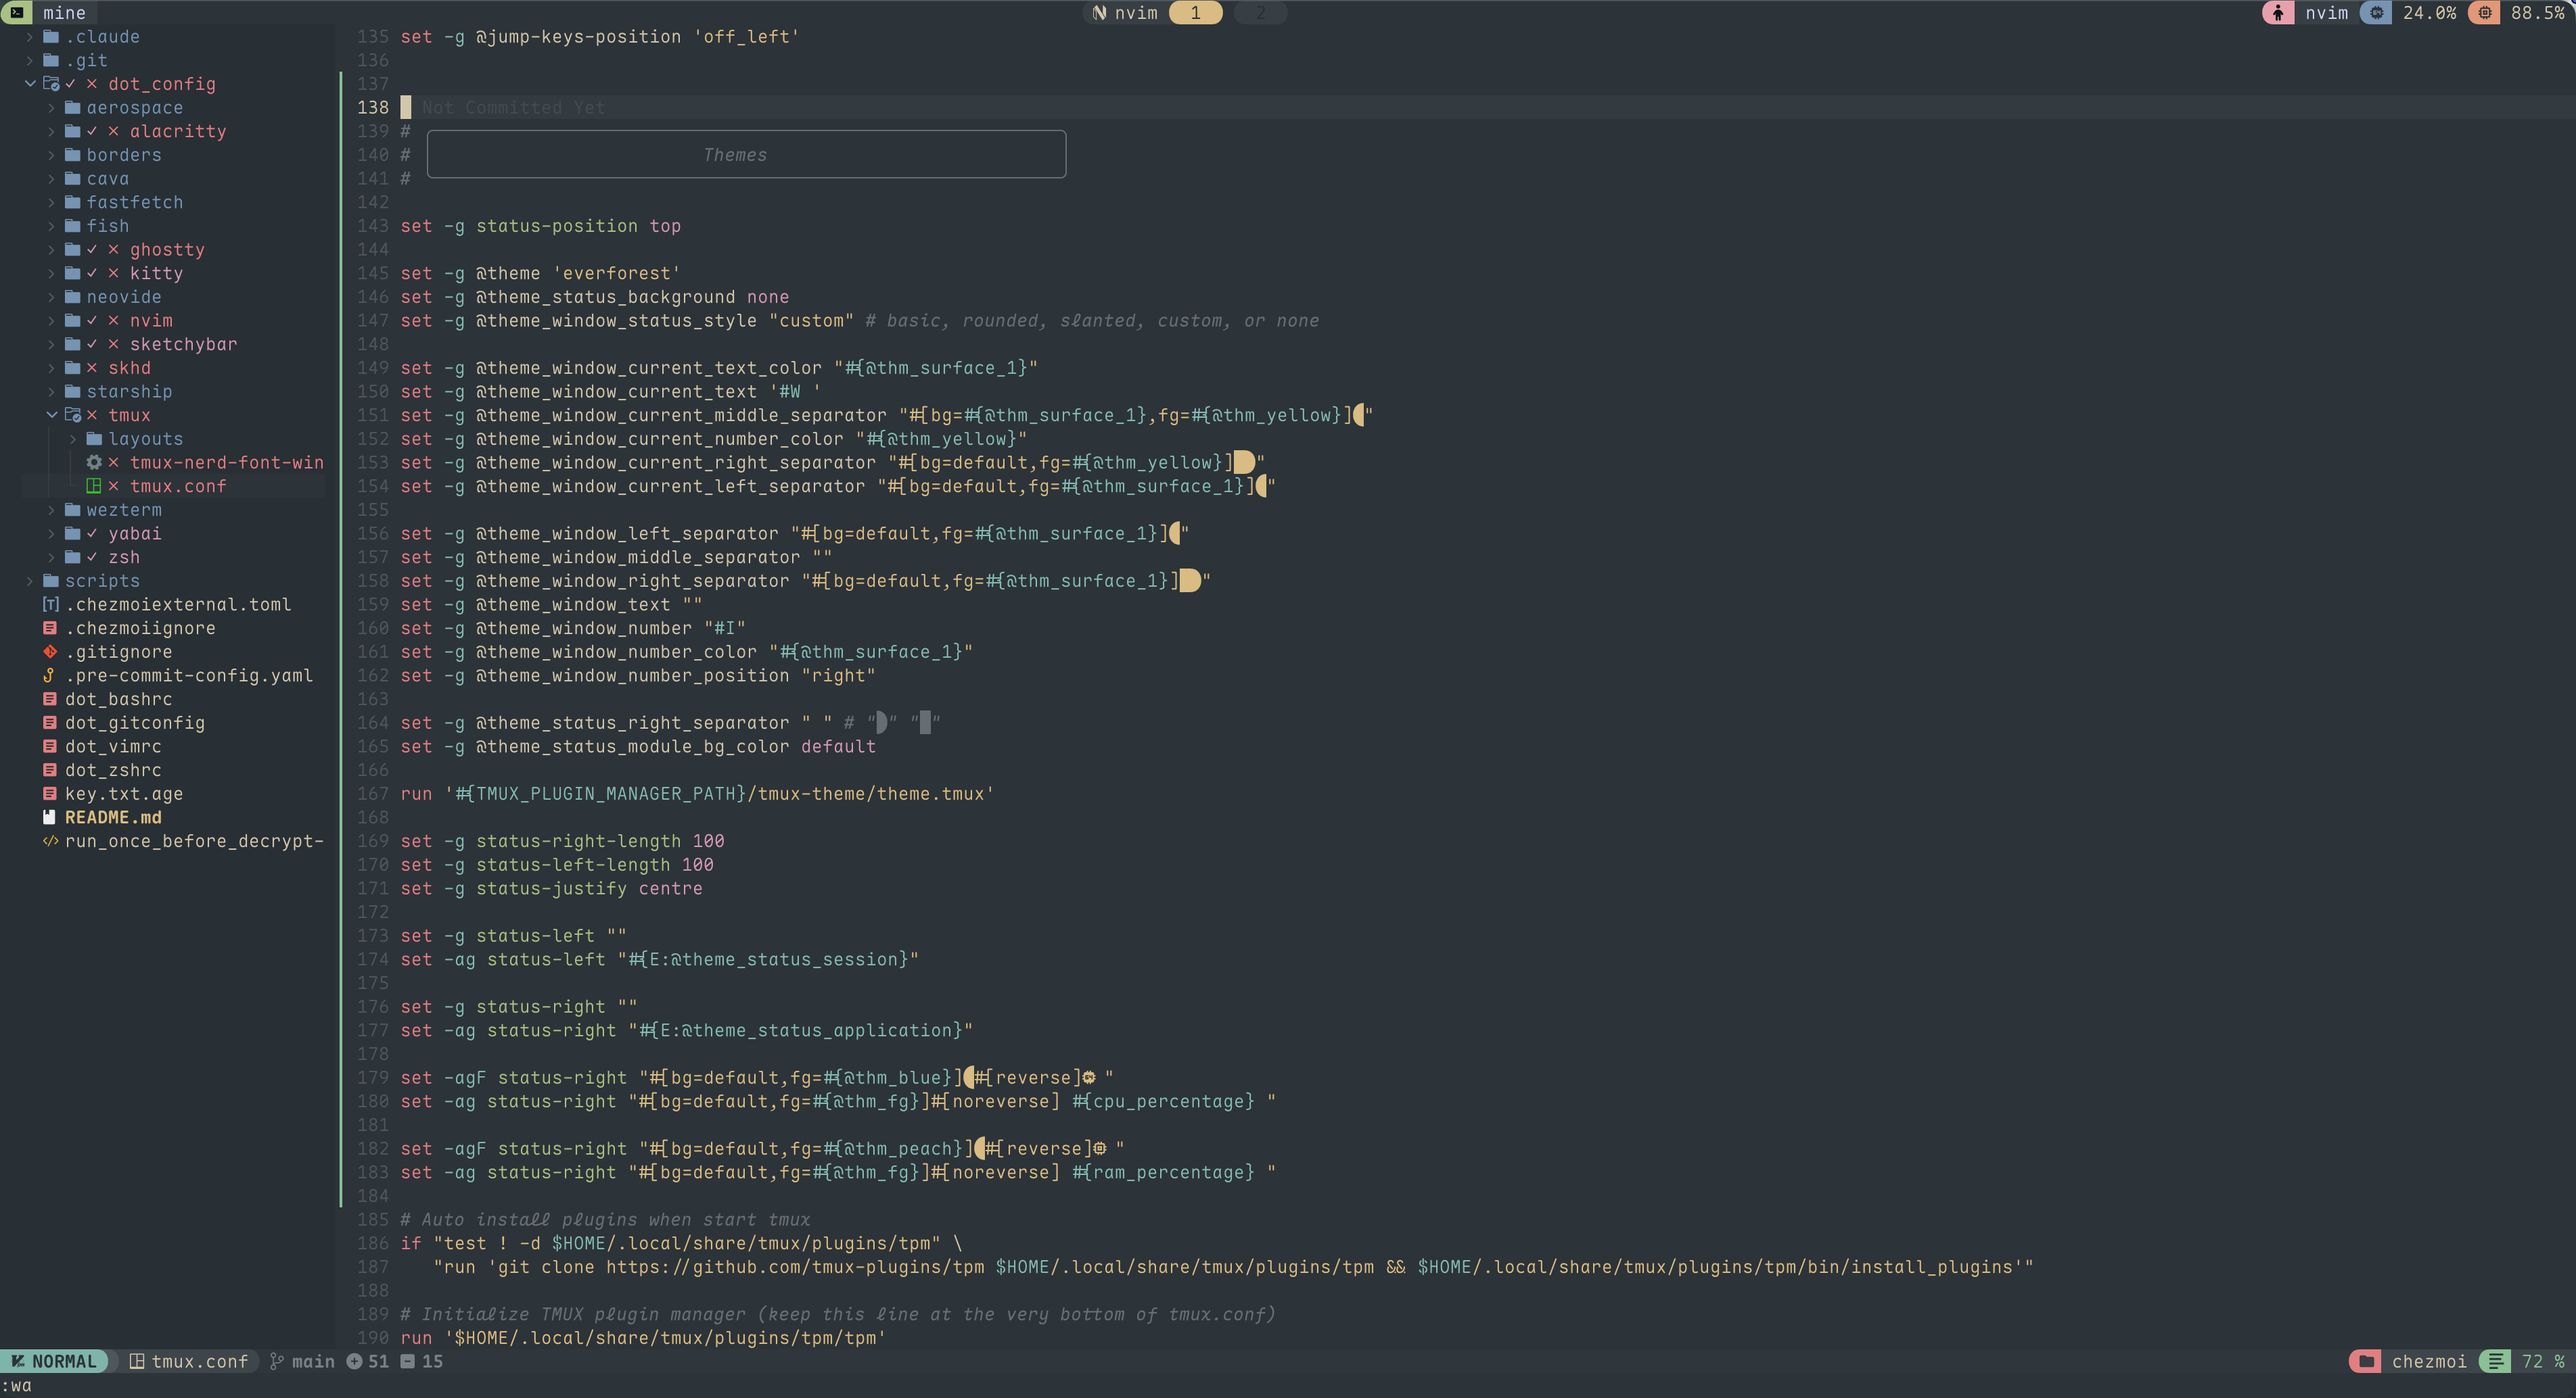
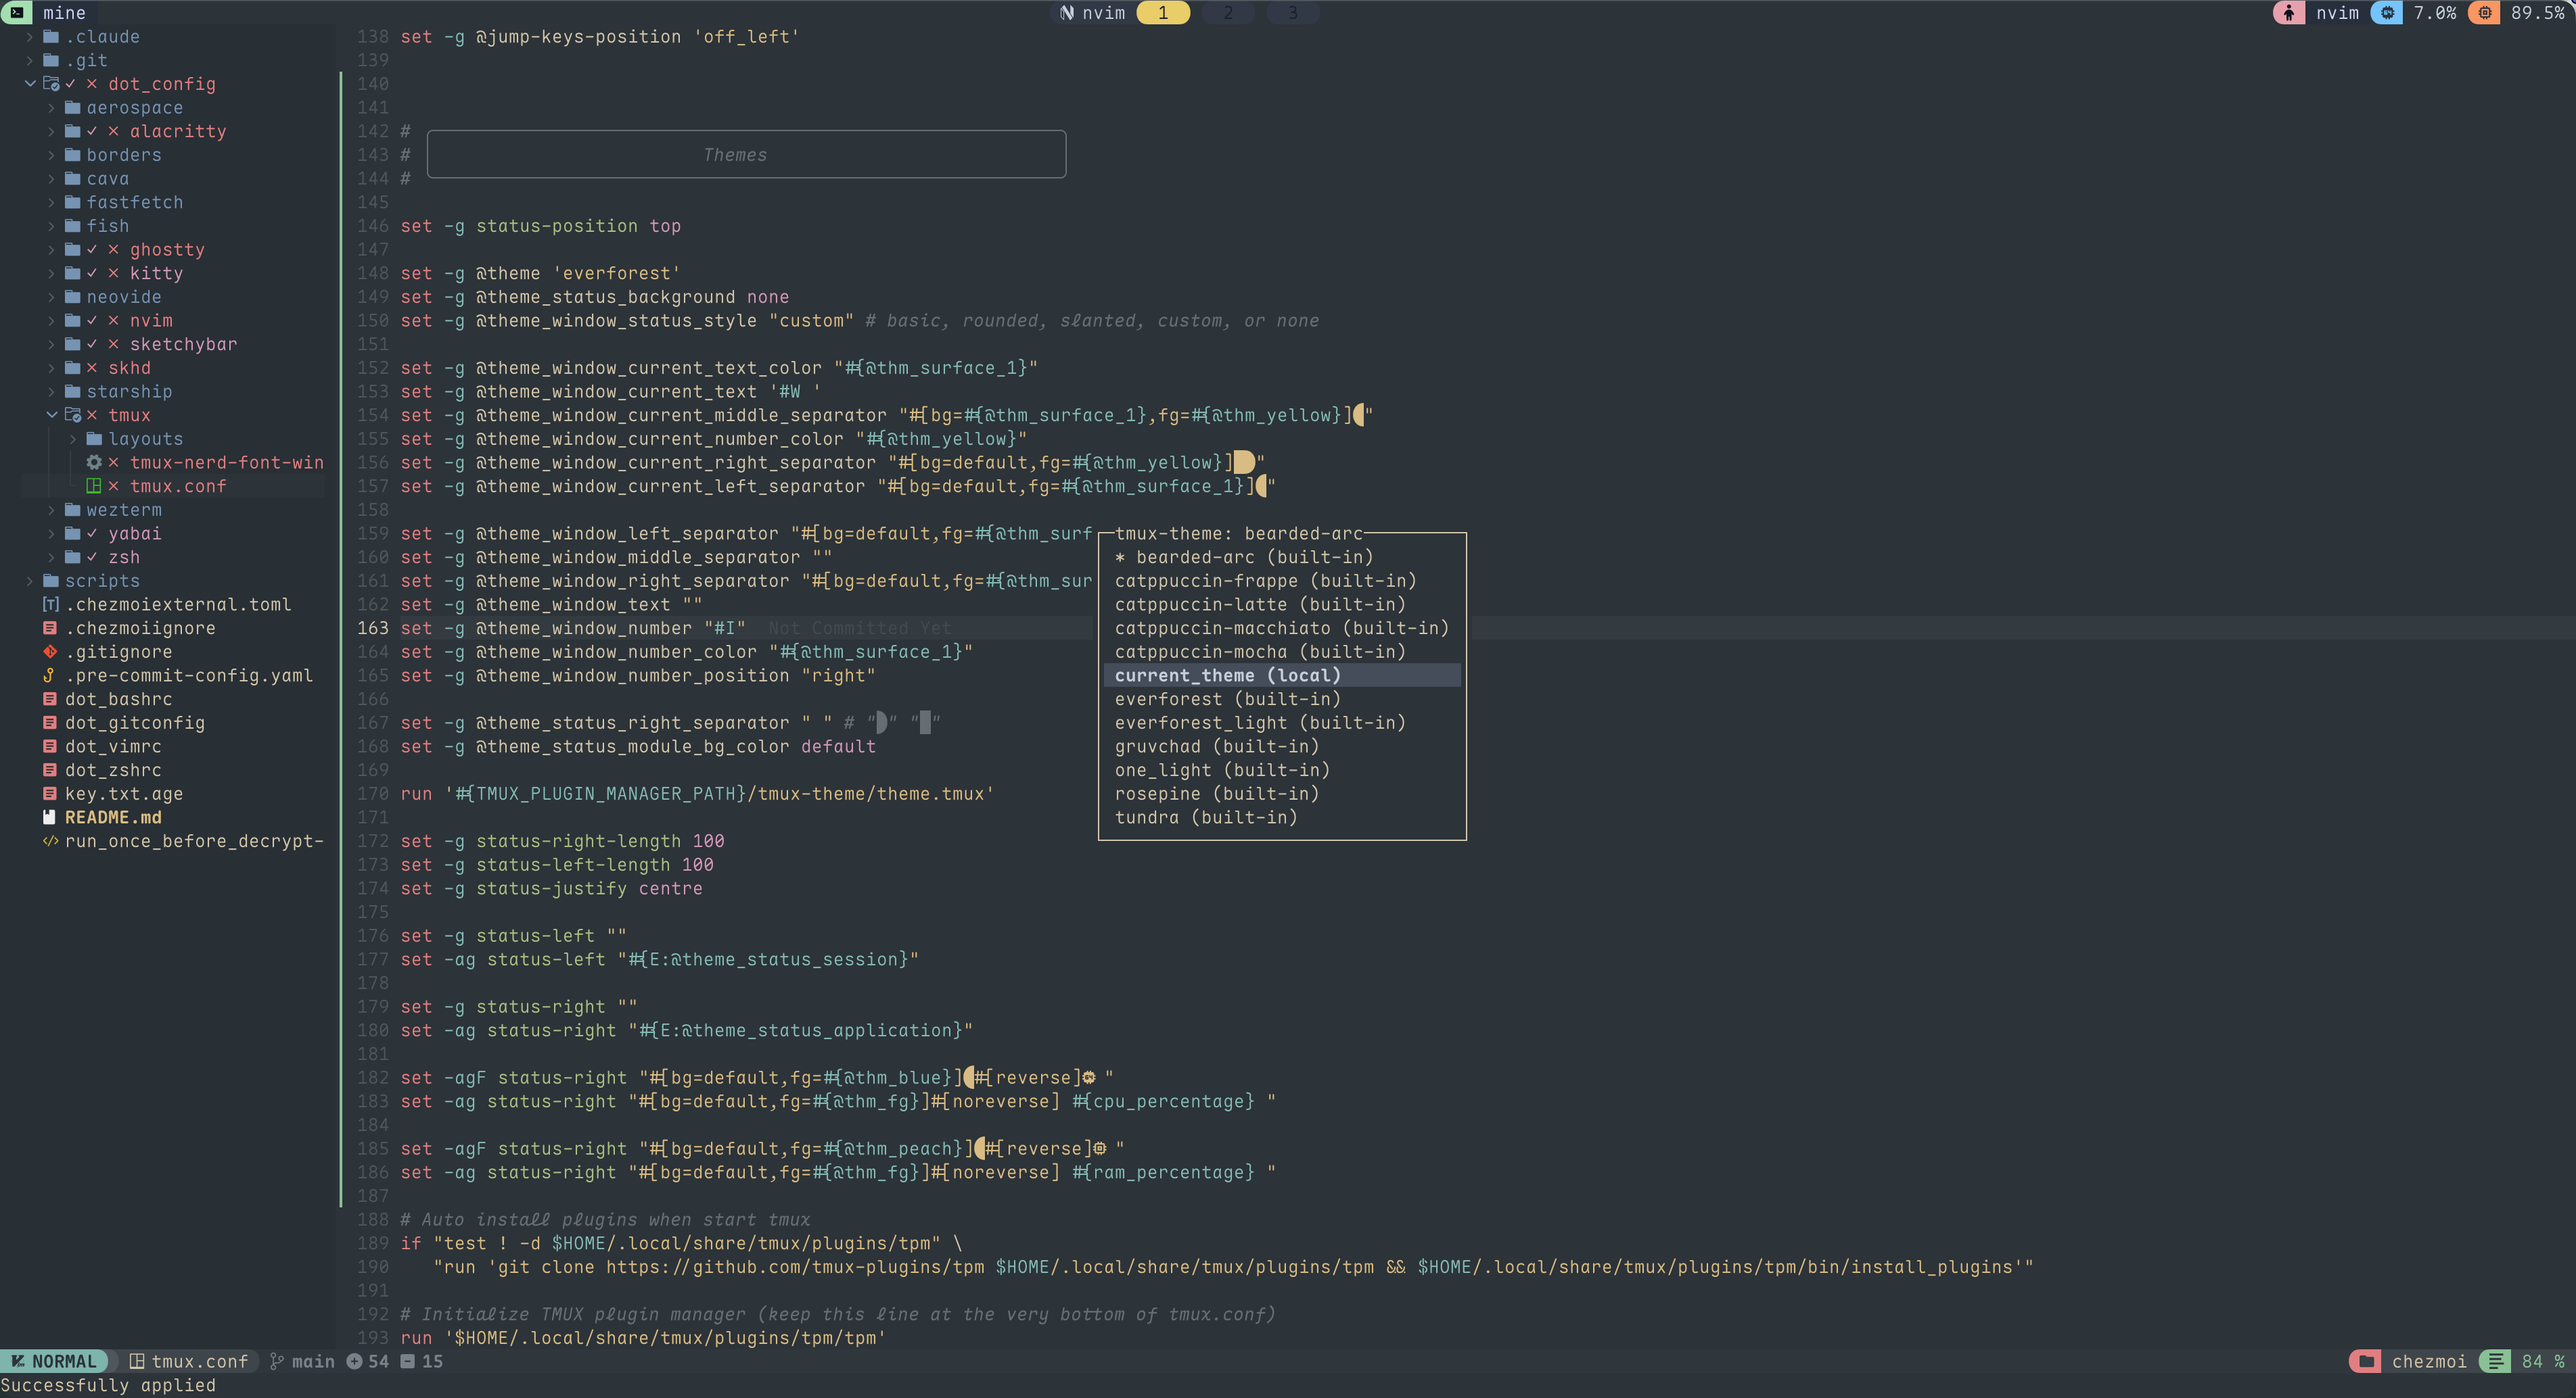
fix(theme): persist menu selections and use popup feedback
- persist the selected theme to ~/.config/tmux/theme/current_theme.conf so reloads keep the last menu choice
- show switch feedback with a popup and skip popup rendering when no tmux client is attached
- tune bearded-arc red accents and keep the generated theme overrides in sync with the checked-in palette

diff --git a/scripts/generate_themes.py b/scripts/generate_themes.py
@@ -48,6 +48,12 @@ COLOR_KEYS = [
     "mantle",
     "crust",
 ]
+THEME_OVERRIDES = {
+    "bearded-arc": {
+        "red": "#ff5f7a",
+        "maroon": "#ff82a0",
+    },
+}
 
 
 def parse_lua_table(source: str, table_name: str) -> dict[str, str]:
@@ -227,6 +233,7 @@ def main() -> None:
         theme_type = base46_type or matheme_type
         merged_base16 = {**matheme_base16, **base16}
         palette = build_palette(base30, merged_base16, theme_type)
+        palette.update(THEME_OVERRIDES.get(theme_name, {}))
         output = render_theme(theme_name, palette)
         (OUTPUT_DIR / f"{theme_name}.conf").write_text(output)
 

diff --git a/docs/reference/configuration.md b/docs/reference/configuration.md
@@ -8,6 +8,7 @@
 | `@theme_switch_key` | Prefix key used to open the theme switcher menu. Set it to `""` to disable the binding. |
 
 External themes live in `~/.config/tmux/theme/<name>.conf`. External files win over built-ins with the same name.
+The theme switcher persists the last selected theme in `~/.config/tmux/theme/current_theme.conf`; that file is read before `@theme` on startup.
 
 ### Status line
 

diff --git a/docs/tutorials/01-getting-started.md b/docs/tutorials/01-getting-started.md
@@ -19,6 +19,7 @@ run ~/.config/tmux/plugins/tmux-theme/theme.tmux
 Restart tmux or run `tmux source ~/.tmux.conf`.
 
 Press `prefix + T` to open the theme switcher menu. Set `@theme_switch_key` to `""` if you want to disable it.
+The menu stores the last selected theme in `~/.config/tmux/theme/current_theme.conf`, so reloading tmux keeps your choice.
 
 ## 3. Pick a different built-in theme
 

diff --git a/README_zh.md b/README_zh.md
@@ -80,6 +80,7 @@ set -g @theme_switch_key "T"
 ```
 
 如果你不想要这个快捷键，把它设为空字符串就行。
+通过菜单切换后的主题会持久化到 `~/.config/tmux/theme/current_theme.conf`，所以 reload tmux 配置后不会又傻乎乎跳回默认主题。
 
 ## 配置示例
 

diff --git a/README.md b/README.md
@@ -80,6 +80,7 @@ set -g @theme_switch_key "T"
 ```
 
 Set it to an empty string if you want to disable the binding.
+The selected theme is persisted to `~/.config/tmux/theme/current_theme.conf`, so reloading tmux will keep the last theme you picked from the menu.
 
 ## Example configuration
 
